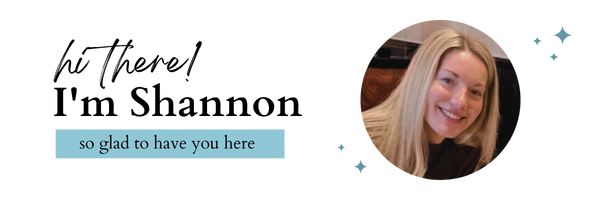
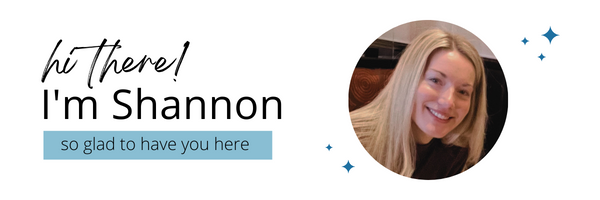
Updated the styling for all pages so that there's a cohesive color scheme and removed default Bootstrap styling. Added mini cards to the AboutMe page and highlighted my skills. Added custom CSS by adding a style.css file.

diff --git a/src/components/pages/AboutMe.js b/src/components/pages/AboutMe.js
@@ -1,46 +1,76 @@
+import '../style.css';
 import welcomeimage from "../../images/welcome-image.png";
-import { MDBAccordion, MDBAccordionItem, MDBIcon } from 'mdb-react-ui-kit';
-import { MDBCard, MDBCardBody, MDBCardText, MDBRow, MDBCol } from 'mdb-react-ui-kit';
+import Row from 'react-bootstrap/Row';
+import Col from 'react-bootstrap/Col';
+import Card from 'react-bootstrap/Card';
 
 export default function About() {
   return (
-    <div >
-      <div className="d-flex align-items-center justify-content-center ">
-        <img src={welcomeimage} alt="welcome" />
-      </div>
-
-      <MDBRow >
-        <br/>
-        <MDBCol className="d-flex align-items-center justify-content-center">
-          <MDBCard className="shadow-5 w-50 mt-4" >
-            <MDBCardBody>
-              <MDBCardText>
-                <h3>
-                  Welcome to my portfolio, where I showcase my projects and let you get a sense of who I am. While I have a couple of years worth of experience in web / mobile configuration and graphic design for a family-run business, I recently started on the path to becoming a full stack web developer. 
-                </h3>
-              </MDBCardText>
-              <MDBAccordion  initialActive={1}>
-                <MDBAccordionItem collapseId={1} headerTitle={<><MDBIcon fas icon="fas fa-laptop-code" /> &nbsp; Technical</>}>
-                  Anim pariatur cliche reprehenderit, enim eiusmod high life accusamus terry richardson ad squid. 3 wolf
-                </MDBAccordionItem>
-                <MDBAccordionItem collapseId={2} headerTitle={<><MDBIcon fas icon="fas fa-palette" /> &nbsp; Creative</>}>
-                  Anim pariatur cliche reprehenderit, enim eiusmod high life accusamus terry richardson ad squid. 3 wolf
-                  moon officia aute, non cupidatat skateboard dolor brunch. Food truck quinoa nesciunt l
-                </MDBAccordionItem>
-                <MDBAccordionItem collapseId={3} headerTitle={<><MDBIcon fas icon="fas fa-book-open" /> &nbsp; Dedicated</>}>
-                  Anim pariatur cliche reprehenderit, enim eiusmod high life accusamus terry richardson ad squid. 3 wolf
-                  moon officia aute, non cupidatat skateboard dolor brunch. Food truck quinoa nesciunt 
-                </MDBAccordionItem>
-              </MDBAccordion>
-            </MDBCardBody>
-          </MDBCard>
-        </MDBCol>
-        <br />
-      </MDBRow>
-
-      <h4 className="d-flex align-items-center justify-content-center p-5">
-      Welcome to my portfolio, where I showcase my projects and let you get a sense of who I am. While I have a couple of years worth of experience in web / mobile configuration and graphic design for a family-run business, I recently started on the path to becoming a full stack web developer.
-      </h4>
+    <div id='about-section'>
+      <Row>
+        <Col className='col-sm-12 col-md-8 mx-auto'>
+          <Card className='about-card shadow p-3 mb-5 bg-white rounded'>
+            <Card.Body className="about-card">
+              <div className='d-flex align-items-center justify-content-center'>
+                <img src={welcomeimage} alt="Hi there! I'm Shannon. So glad to have you here" id='welcome-image'/>
+              </div>
+              <Card.Text>
+                <p>
+                  Welcome to my portfolio, where you can view my projects and get to know me a little. Over the past few years, I discovered my passion for web / mobile configuration and graphic design while working on a family-run business. It started as a hobby that I did on the side since I had a full time career as a Medical Lab Scientist. With hopes of a career change and a desire to receive structured training, I started on the path to become a full stack developer. 
+                  </p>
+                  <p>
+                  Over 7 years in the healthcare laboratory setting not only shaped me as a professional, but it helped me realize my skills. Not surprisingly, the same skills that led to my successful laboratory career are the same skills needed in web development.
+                </p>
+                <p>
+                  Focus, attention to detail, and a dedication to providing the highest quality results possible are among my most valued. I'm excited to transfer these skills to my new career so that I can be a part of creating exceptional work. Thank you for taking the time to view my portfolio and I hope we have the opportunity to work together in the future. 
+                </p>
+              </Card.Text>
+            </Card.Body>
+          </Card>
+        </Col>
+      </Row>
+      <Row>
+        <Col className='d-flex justify-content-center'>
+          <Card className='about-mini-cards shadow p-3 mb-5 bg-white rounded' border="light" style={{ width: '18rem' }}>
+            <Card.Body>
+              <Card.Text>
+              <i className='fas fa-laptop-code fa-3x about-icons' style={{ color: '#094472' }}></i><br/>
+                Technical Aptitude<br/>JavaScript<br/>HTML / CSS<br/>React.js
+              </Card.Text>
+            </Card.Body>
+          </Card>
+        </Col>
+        <Col className='d-flex justify-content-center'>
+          <Card className='about-mini-cards shadow p-3 mb-5 bg-white rounded' border="light" style={{ width: '18rem' }}>
+            <Card.Body>
+              <Card.Text>
+              <i className="fas fa-palette fa-3x" style={{ color: '#094472' }}></i><br/><br/>
+                UX / UI<br/>Graphic Design<br/>Branding<br/>Figma
+              </Card.Text>
+            </Card.Body>
+          </Card>
+        </Col>
+        <Col className='d-flex justify-content-center'>
+          <Card className='about-mini-cards shadow p-3 mb-5 bg-white rounded' border="light" style={{ width: '18rem' }}>
+            <Card.Body>
+              <Card.Text>
+              <i className="fas fa-users fa-3x" style={{ color: '#094472' }}></i><br/><br/>
+                Agile Methodology<br/>Team Collaboration<br/>Git Version Control<br/>Independent Contributor
+              </Card.Text>
+            </Card.Body>
+          </Card>
+        </Col>
+        <Col className='d-flex justify-content-center'>
+          <Card className='about-mini-cards shadow p-3 mb-5 bg-white rounded' border="light" style={{ width: '18rem' }}>
+            <Card.Body>
+              <Card.Text>
+              <i className="fas fa-hand-holding-heart fa-3x" style={{ color: '#094472' }}></i><br/><br/>
+                Client-Centric<br/>Lifelong Learner<br/>Goal-Oriented<br/>Value-Driven
+              </Card.Text>
+            </Card.Body>
+          </Card>
+        </Col>
+      </Row>
     </div>
   );
 };

diff --git a/src/components/pages/Contact.js b/src/components/pages/Contact.js
@@ -1,7 +1,10 @@
 import React, { useState } from 'react';
 import Container from 'react-bootstrap/Container';
 import Form from 'react-bootstrap/Form';
-import { MDBCard, MDBCardBody, MDBCardTitle, MDBCardText, MDBRow, MDBCol, MDBBtn } from 'mdb-react-ui-kit';
+import Row from 'react-bootstrap/Row';
+import Col from 'react-bootstrap/Col';
+import Card from 'react-bootstrap/Card';
+import Button from 'react-bootstrap/Button';
 import { validateEmail } from './utils/helpers';
 
 export default function Contact() {
@@ -72,66 +75,76 @@ export default function Contact() {
       setErrorMessage('Please enter a message.');
       return;
     }
-    
-    // Clears out form field data after successful form submission
-    setName('');
-    setEmail('');
-    setMessage('');
+    // Displays a message if all fields are valid upon submission
+    if (name && email && message) {
+      setErrorMessage(`Thank you for your inquiry, ${name}!`);
+
+      // Clears out form field data after successful form submission
+      setName('');
+      setEmail('');
+      setMessage('');
+      return;
+    }
   };
 
   return (
     <Container>
-    <MDBRow>
-      <MDBCol className="d-flex align-items-center justify-content-center">
-        <MDBCard className="shadow-5 w-50 mt-4">
-          <MDBCardBody>
-            <MDBCardTitle>Please feel free to contact me by submitting some information below.</MDBCardTitle>
-              <MDBCardText>
-              <Form className="form">
-                <Form.Group className="mb-3" controlId="formGroupName">
-                <Form.Control
-                  value={name}
-                  name="name"
-                  onChange={handleInputChange}
-                  onBlur={handleClickingOut}
-                  type="text"
-                  placeholder="Name"
-                />
-                </Form.Group>
-                <Form.Group className="mb-3" controlId="formGroupEmail">
-                <Form.Control
-                  value={email}
-                  name="email"
-                  onChange={handleInputChange}
-                  onBlur={handleClickingOut}
-                  type="email"
-                  placeholder="Email"
-                />
-                </Form.Group>
-                <Form.Group className="mb-3" controlId="formGroupMessage">
-                <Form.Control
-                  value={message}
-                  name="message"
-                  onChange={handleInputChange}
-                  onBlur={handleClickingOut}
-                  as="textarea" rows={6}
-                  placeholder="Message"
-                />
-                </Form.Group>
-                <MDBBtn type="button" onClick={handleFormSubmit} className="btn btn btn-rounded">Submit</MDBBtn>
-              </Form>
-              </MDBCardText>
-            </MDBCardBody>
-          </MDBCard>
-        </MDBCol>
-      </MDBRow>
-        <div className='text-center'>
-          {errorMessage && (
-            <div>
-              <h4 className="error-text">{errorMessage}</h4>
-            </div>
-          )}
-        </div>
+      <Row>
+        <Col className="d-flex align-items-center justify-content-center">
+          <Card className="mw-75 mt-4 shadow p-3 mb-5 bg-white rounded" id='contact-card'>
+            <Card.Body style={{ backgroundColor: '#D6E7EF' }}>
+              <Card.Title className='text-center'>Contact Me</Card.Title>
+              <Card.Text className='text-center'>
+                Please feel free to reach out by submitting some information below.
+              </Card.Text>
+                <Form className="form">
+                  <Form.Group className="mb-3" controlId="formGroupName">
+                  <Form.Control
+                    value={name}
+                    name="name"
+                    onChange={handleInputChange}
+                    onBlur={handleClickingOut}
+                    type="text"
+                    placeholder="Name"
+                  />
+                  </Form.Group>
+                  <Form.Group className="mb-3" controlId="formGroupEmail">
+                  <Form.Control
+                    value={email}
+                    name="email"
+                    onChange={handleInputChange}
+                    onBlur={handleClickingOut}
+                    type="email"
+                    placeholder="Email"
+                  />
+                  </Form.Group>
+                  <Form.Group className="mb-3" controlId="formGroupMessage">
+                  <Form.Control
+                    value={message}
+                    name="message"
+                    onChange={handleInputChange}
+                    onBlur={handleClickingOut}
+                    as="textarea" rows={6}
+                    placeholder="Message"
+                  />
+                  </Form.Group>
+                  <div className='text-center'>
+                    <Button type="button" onClick={handleFormSubmit} variant="secondary">Submit
+                    </Button>
+                  </div>
+                </Form>
+              </Card.Body>
+            </Card>
+          </Col>
+        </Row>
+          <br />
+          <div className='text-center'>
+            {errorMessage && (
+              <div>
+                <h5 className="error-text">{errorMessage}</h5>
+              </div>
+            )}
+          </div>
     </Container> 
            
   );

diff --git a/src/components/Project.js b/src/components/Project.js
@@ -2,15 +2,15 @@ import Card from 'react-bootstrap/Card';
 
 export default function Project(props) {
   return (
-    <Card style={{ backgroundColor: '#90C7D6' }} className="m-3">
+    <Card style={{ backgroundColor: '#D6E7EF' }} className="project-card m-3 shadow p-3 mb-5 bg-white rounded">
       <Card.Img variant="top" src={props.image} alt={props.name} className="opacity-50"/>
       <Card.Body className='text-center'>
-        <a href={props.deployedLink}>
-          <i className="fas fa-external-link-alt fa-3x text-decoration-none m-1" style={{ color: '#375A6C' }}>
+        <a href={props.deployedLink} className='portfolio-icons'>
+          <i className="fas fa-external-link-alt fa-3x text-decoration-none" style={{ color: '#1F71A2' }}>
           </i>
         </a>
-        <a href={props.githubLink}>
-          <i className="fab fa-github fa-3x text-decoration-none m-1" style={{ color: '#375A6C' }}>
+        <a href={props.githubLink} className='portfolio-icons'>
+          <i className="fab fa-github fa-3x text-decoration-none" style={{ color: '#1F71A2' }}>
           </i>
         </a>
       </Card.Body>

diff --git a/src/App.js b/src/App.js
@@ -1,18 +1,15 @@
-
 import 'bootstrap/dist/css/bootstrap.min.css';
 import Navigation from './components/Navigation';
 import ThemeProvider from 'react-bootstrap/ThemeProvider';
 import Footer from './components/Footer';
-import portfolioBanner from './images/portfolio-banner.png';
 
 function App() {
   return (
     <ThemeProvider breakpoints={['xxxl', 'xxl', 'xl', 'lg', 'md', 'sm', 'xs', 'xxs']}
       minBreakpoint="xxs">
       
-      <div className='p-5 text-center bg-image' >
-        <h1 className='mb-3'>Shannon Dann</h1>
-        <h4 className='mb-3'>Full Stack Web Developer</h4>
+      <div className='p-5 text-center bg-image' id='banner'>
+        <h1 className='mb-3' id='banner-text'>Shannon Dann</h1>
       </div>
       <Navigation />
         

diff --git a/src/components/style.css b/src/components/style.css
@@ -1,0 +1,54 @@
+/* Top Banner */
+#banner {
+  background-image: url('../images/portfolio-banner.png');
+  max-width: 100%;
+  height: auto;
+}
+
+#banner-text {
+  color: white;
+}
+
+/* Page Rendering Section */
+.page-area {
+  padding: 2rem;
+}
+
+/* About Me Page */
+#about-section {
+  margin: 2rem;
+}
+
+#welcome-image {
+  max-width: 100%;
+  height: auto;
+}
+
+.about-card {
+  margin-bottom: 1rem;
+  border: 0;
+}
+
+.about-icons {
+  display: flex;
+  justify-content: center;
+}
+
+.about-mini-cards {
+  display: flex;
+  text-align: center;
+}
+
+/* Portfolio Page */
+.project-card {
+  border: 0;
+}
+
+.portfolio-icons {
+  padding: 1rem;
+}
+
+/* Contact Page */
+#contact-card {
+  border: 0
+}

diff --git a/src/components/pages/Portfolio.js b/src/components/pages/Portfolio.js
@@ -59,7 +59,8 @@ export default function Portfolio() {
   return (
     <Container>
       <h1 className="portfolio-header">Project Portfolio</h1>
-      <h2>Here are some of my favorite projects I've worked on.</h2>
+      <h4>Here are some of my favorite projects I've worked on so far.</h4>
+      <p>Visit the links to view the live website or GitHub repository.</p>
       <br />
       <Row>
         {projectData.map((project) => (
@@ -68,7 +69,7 @@ export default function Portfolio() {
           </Col>
         ))}
       </Row>
-      <h3 className='pb-5'>Thank you for visiting my portfolio!</h3>
+      <br/>
     </Container>
   );
 }

diff --git a/src/components/Footer.js b/src/components/Footer.js
@@ -3,7 +3,7 @@ import "@fortawesome/fontawesome-free/css/all.min.css";
 
 export default function Footer() {
   return (
-    <MDBFooter className='text-center text-white fixed-bottom' style={{ backgroundColor: '#375A6C' }}>
+    <MDBFooter className='text-center text-white fixed-bottom' style={{ backgroundColor: '#1F71A2' }}>
       <MDBContainer className='p-2 pb-0'>
         <section className='mb-2'>
           <MDBBtn outline color="light" floating className='m-2' href='#!' role='button'>

diff --git a/src/components/Navigation.js b/src/components/Navigation.js
@@ -27,7 +27,9 @@ export default function Navigation() {
   return (
     <div>
       <Header currentPage={currentPage} handlePageChange={handlePageChange} />
-      {renderPage()}
+      <div className='page-area'>
+        {renderPage()}
+      </div>
     </div>
   );
 }
